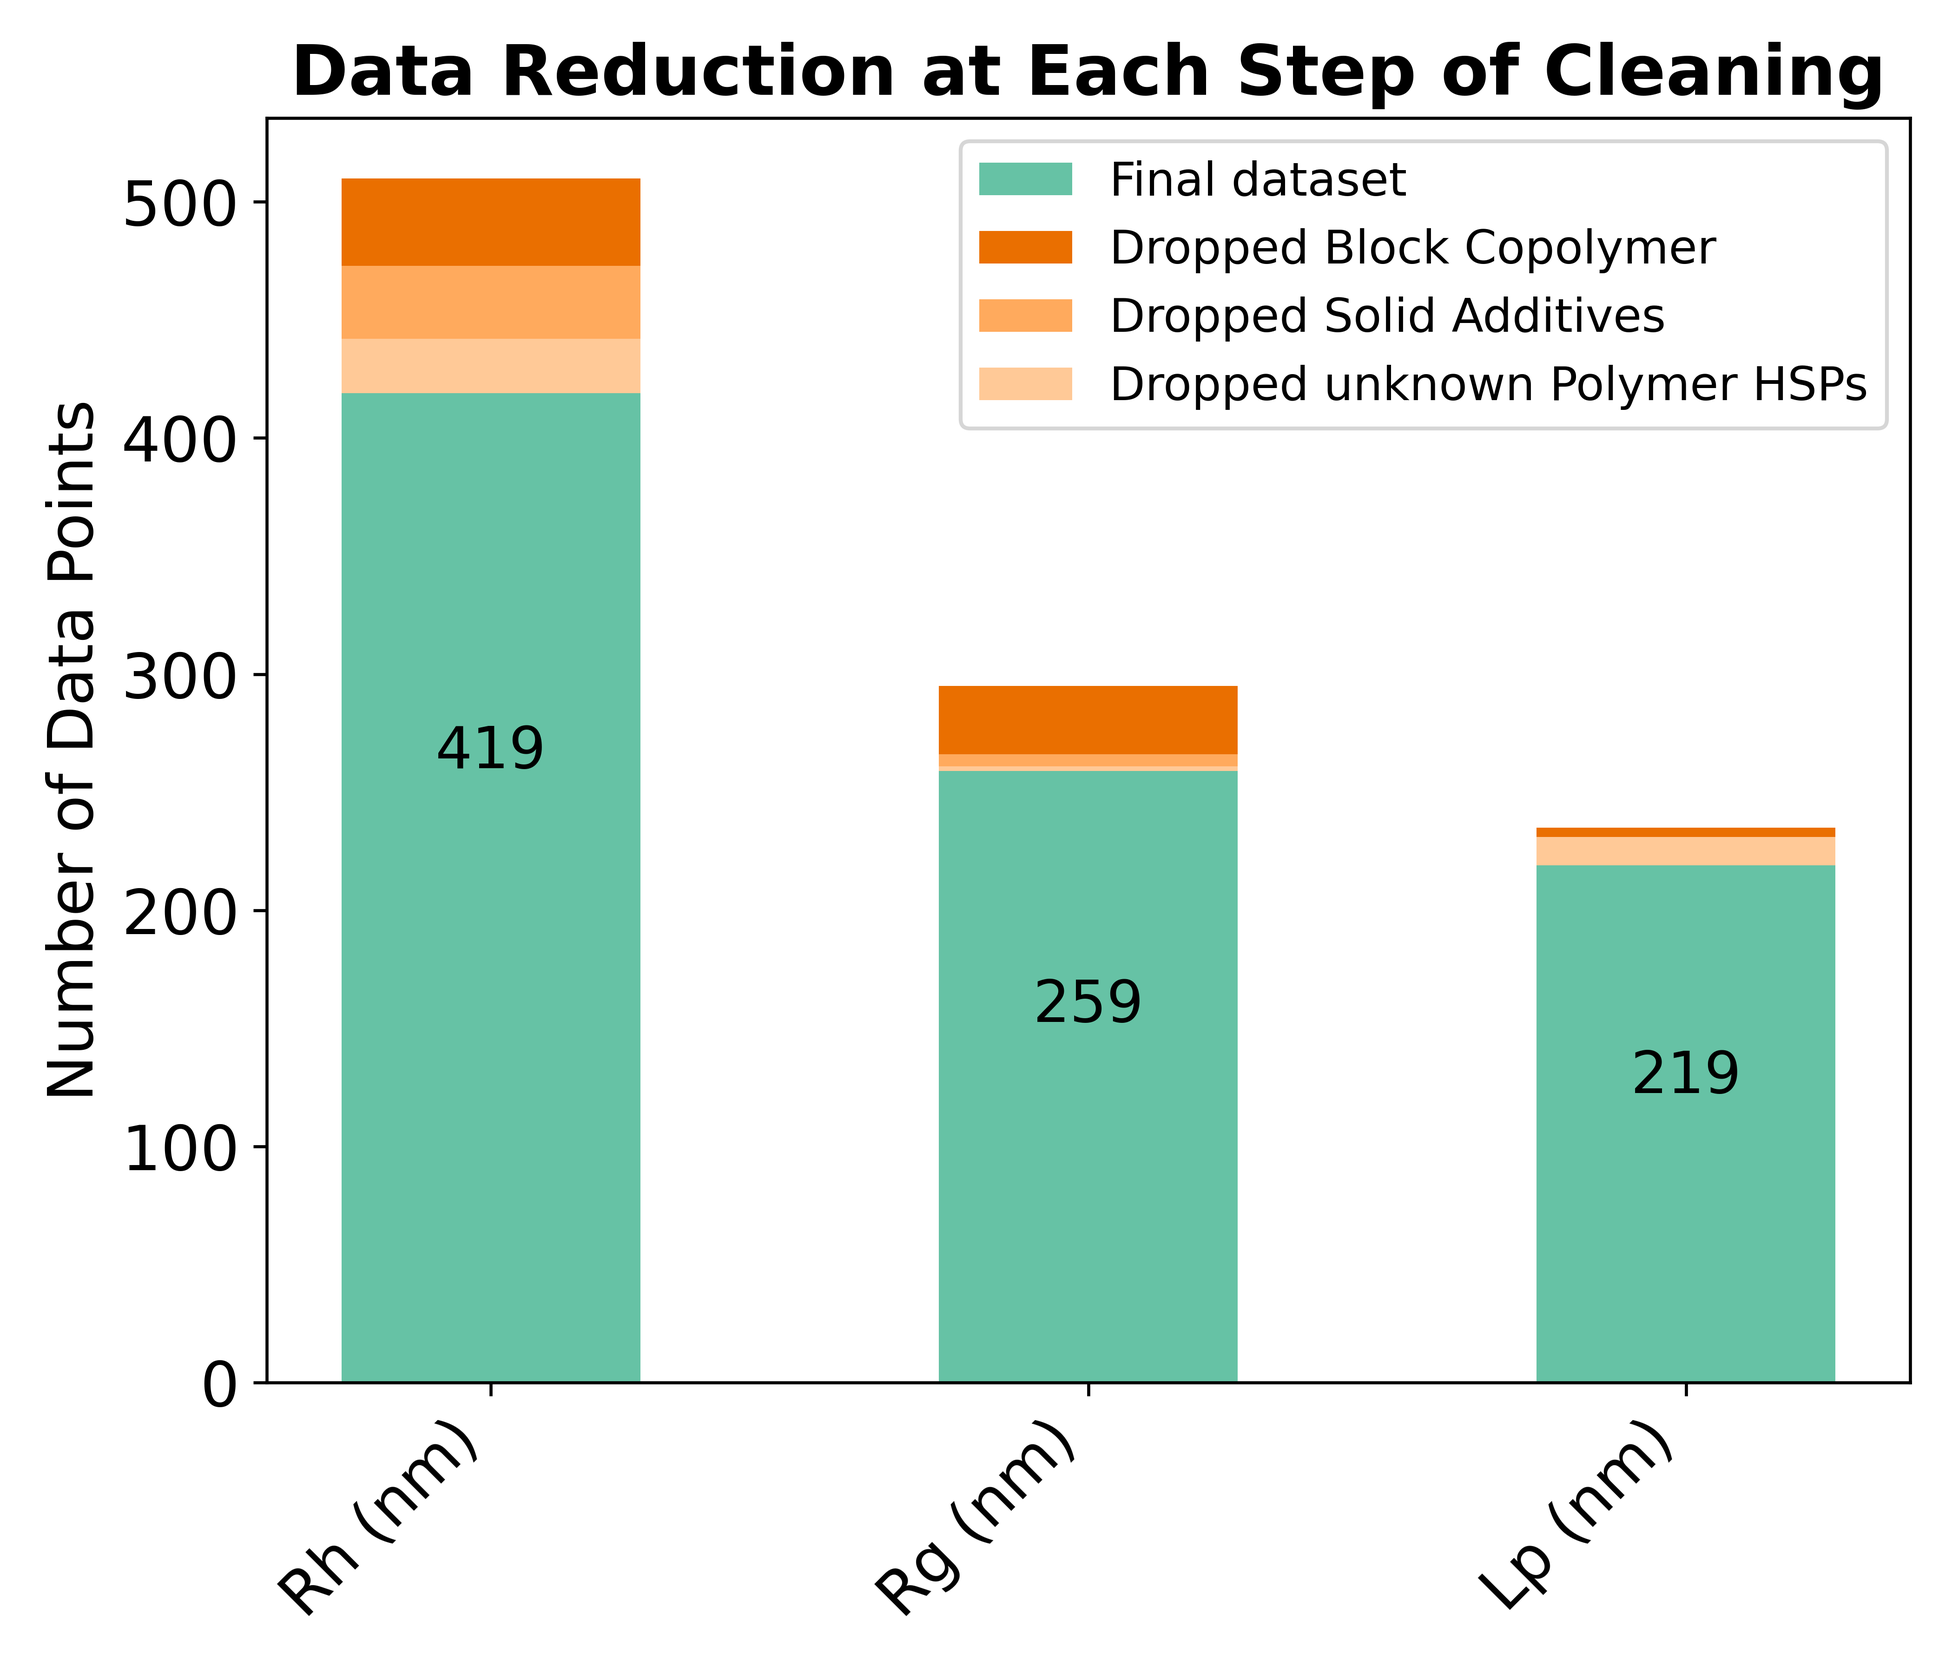
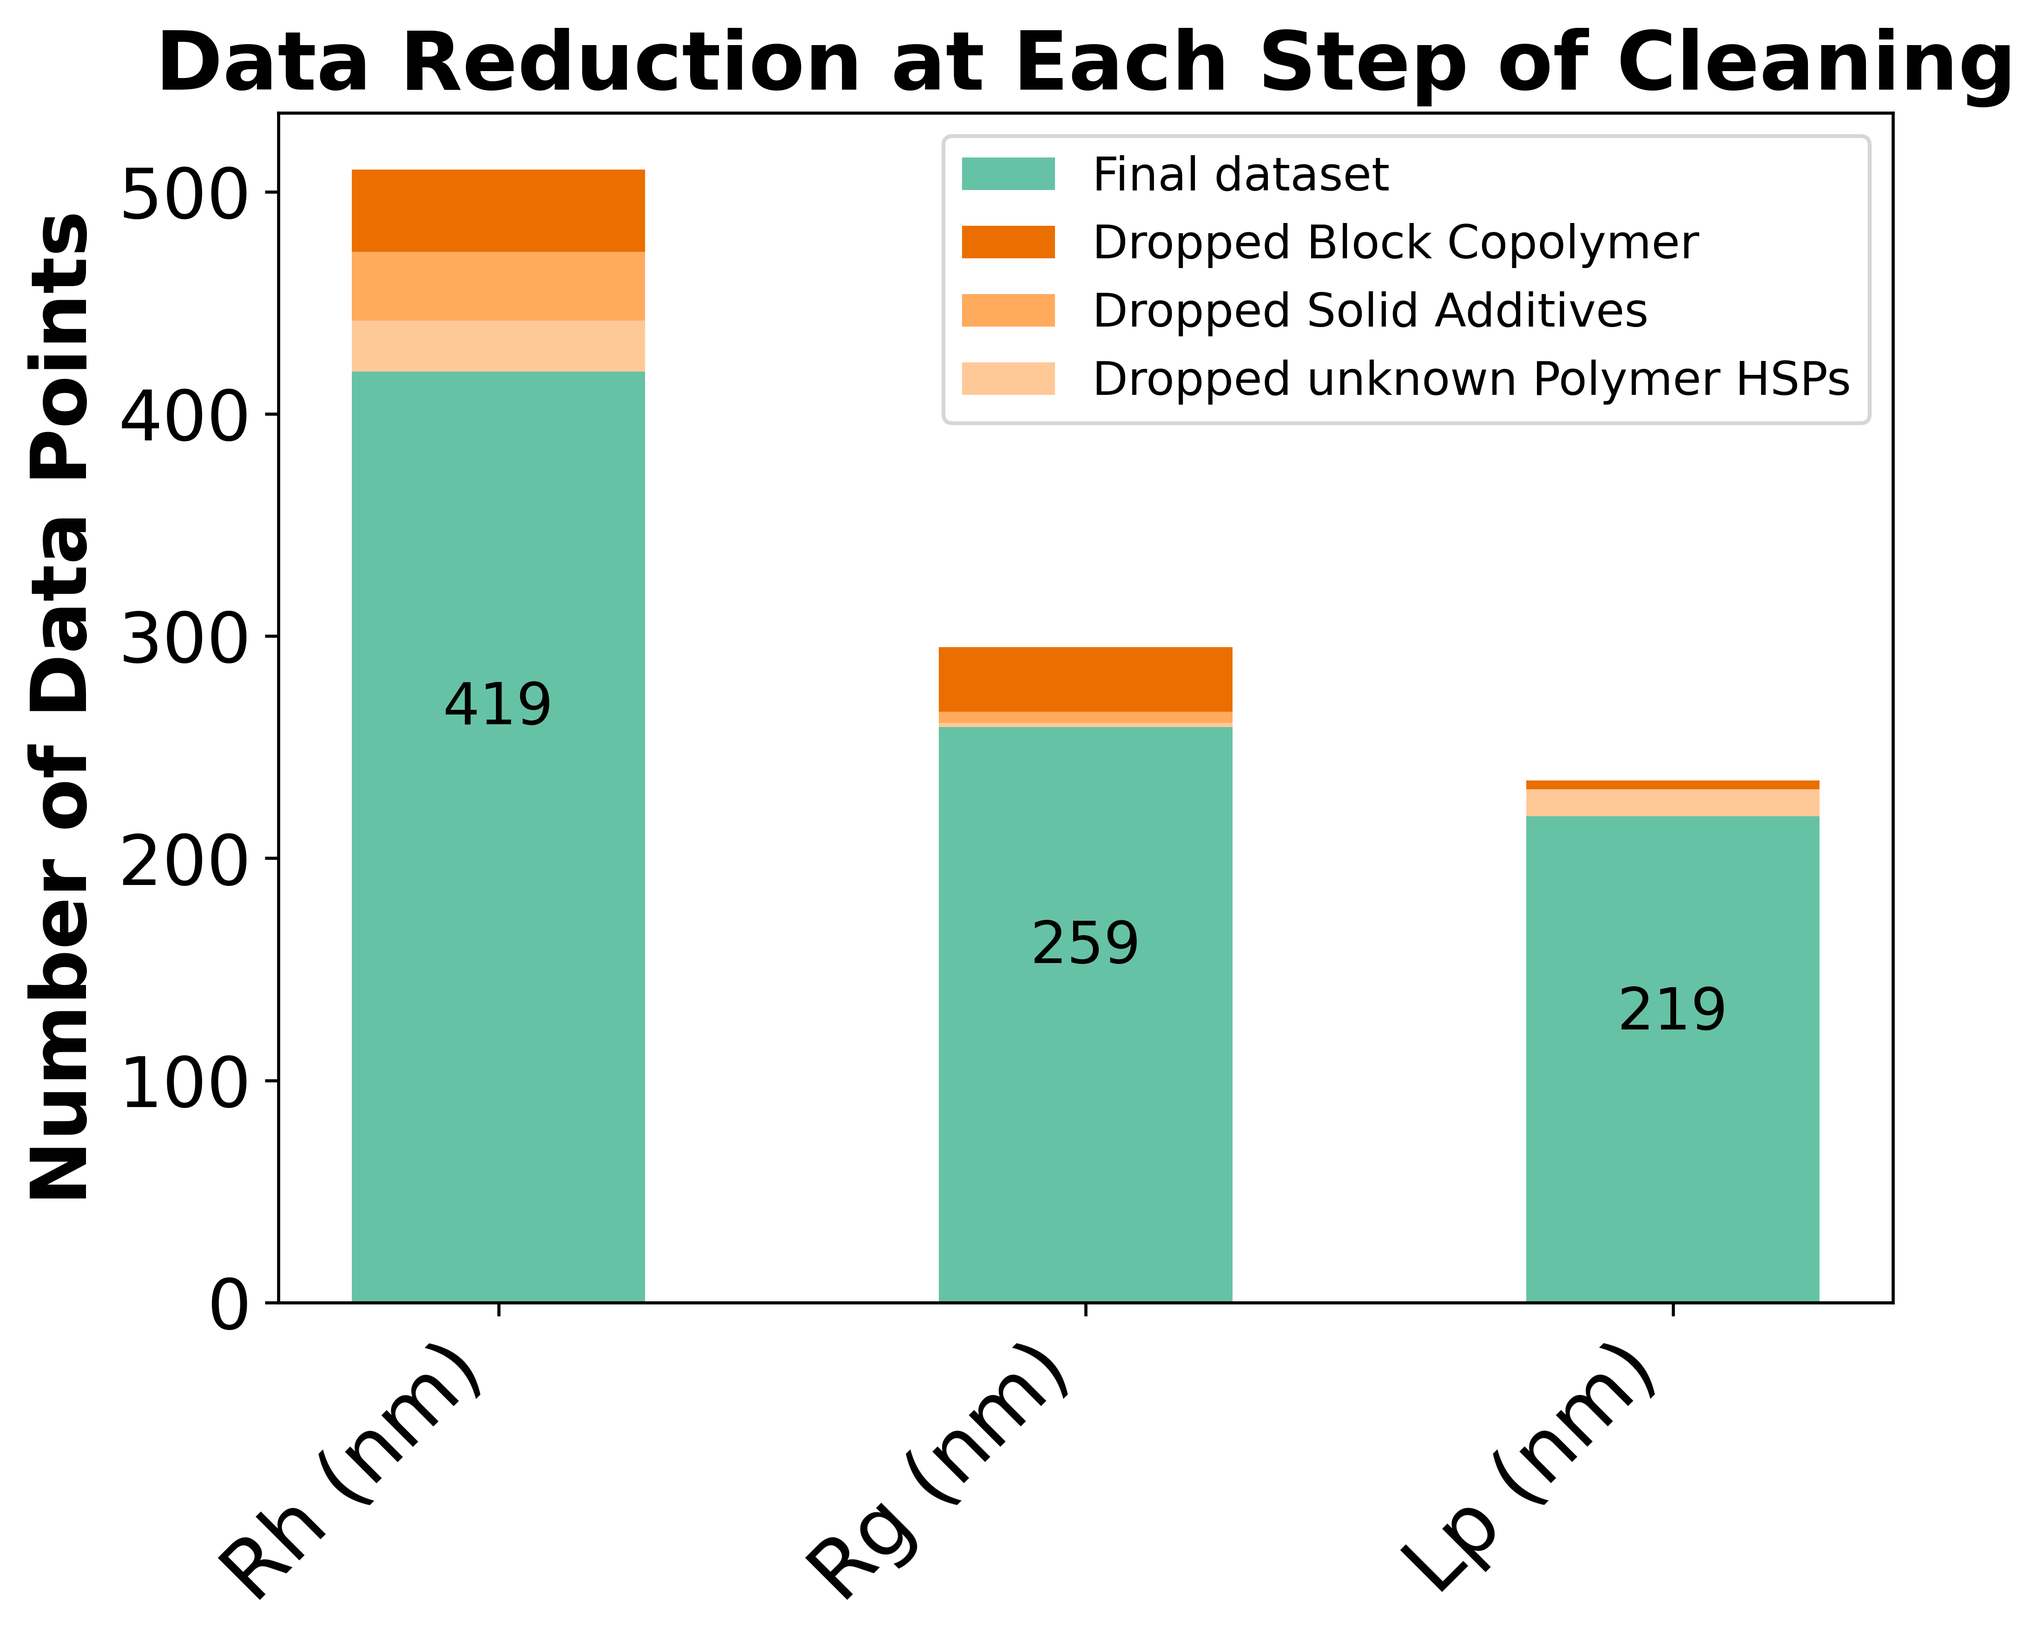
updated

diff --git a/code_/training/get_ood_split_learning_curve.py b/code_/training/get_ood_split_learning_curve.py
@@ -16,7 +16,8 @@ from imputation_normalization import preprocessing_workflow
 from training_utils import get_target_transformer, split_for_training,set_globals
 from scoring import (
                     train_and_predict_ood,
-                    process_ood_learning_curve_score
+                    process_ood_learning_curve_score,
+                    get_incremental_split
                 )
 from all_factories import optimized_models
 
@@ -66,9 +67,9 @@ def train_ood_learning_curve(
                                     second_transformer=second_transformer,
                                     clustering_method=clustering_method,
                                     )
-
+    print(score)
     score = process_ood_learning_curve_score(score)
-
+    print(score)
     return score, predictions
 
 def prepare_data(    
@@ -146,11 +147,46 @@ def run_ood_learning_curve(
         X_test, y_test = split_for_training(X, test_idx), split_for_training(y, test_idx)
         learning_curve_predictions[f'CO_{cluster}'] = {'y_true': y_test.flatten()}
         train_ratios =[
-            .1,.3,.5,.7,
+            
             .9]
         min_ratio_to_compare = min_train_size/len(X_tv)
         if min_ratio_to_compare not in train_ratios:
             train_ratios.append(min_ratio_to_compare)
+
+
+
+
+        #### IID learning curve
+        ID_n_split = round(len(y)/len(y_test))
+        for seed_IID in SEEDS:
+
+           ### building model
+            y_transform = get_target_transformer(transform_type, second_transformer)
+            model = optimized_models(model_name, random_state=seed_IID)
+
+            y_model = TransformedTargetRegressor(
+                                regressor=model,
+                                transformer=y_transform,
+                                )
+            new_preprocessor = 'passthrough' if len(preprocessor.steps) == 0 else preprocessor
+            regressor_IID :Pipeline= Pipeline(steps=[
+                                ("preprocessor", new_preprocessor),
+                                ("regressor", y_model),
+                                ])
+            regressor_IID.set_output(transform="pandas")
+
+            IID_cv_baseline = KFold(n_splits=ID_n_split, shuffle=True, random_state=seed_IID)
+            train_sizes_IID, train_scores_IID, test_scores_IID = get_incremental_split(regressor_IID,X,y, 
+                                                            cv=IID_cv_baseline,scoring='neg_root_mean_squared_error',
+                                                            train_ratio=train_ratios,random_state=seed_IID)
+            
+            train_ratios_IID: np.ndarray = np.array(train_sizes_IID) / len(X_tv)
+            for train_ratio_IID, train_score_IID, test_score_IID in zip(train_ratios_IID, train_scores_IID, test_scores_IID):
+
+                learning_curve_scores.setdefault(f'ID_{cluster}', {}).setdefault(f'seed_{seed_IID}', {})[f'ratio_{train_ratio_IID}']= {
+                    f'train_rmse': train_score_IID,
+                    'test_rmse': test_score_IID,
+                }
 
 
         for train_ratio in train_ratios:
@@ -162,7 +198,6 @@ def run_ood_learning_curve(
                 random_state_list = np.arange(12)
             elif train_ratio >=0.1:
                 random_state_list = np.arange(30)
-
             else:
                 random_state_list = np.arange(50)
 
@@ -182,28 +217,28 @@ def run_ood_learning_curve(
                 y_model = TransformedTargetRegressor(
                                     regressor=model,
                                     transformer=y_transform,
-                            )
+                                    )
                 new_preprocessor = 'passthrough' if len(preprocessor.steps) == 0 else preprocessor
                 regressor :Pipeline= Pipeline(steps=[
                                     ("preprocessor", new_preprocessor),
                                     ("regressor", y_model),
-                                        ])
+                                    ])
                 regressor.set_output(transform="pandas")
-
-
                 uncertainty_preprocessr: Pipeline = Pipeline(steps=[
                     ("preprocessor", new_preprocessor),
-                ]) 
-                test_score, train_scores, y_test_pred_ood, y_test_uncertainty = train_and_predict_ood(regressor, X_train, y_train, X_test, y_test,
-                                                                                  return_train_pred=True,algorithm=model_name,manual_preprocessor=uncertainty_preprocessr)
+                    ]) 
+
+                test_scores_OOD, train_scores_OOD, y_test_pred_OOD, y_test_uncertainty_OOD = train_and_predict_ood(regressor, X_train, y_train, X_test, y_test,
+                                                                                                    return_train_pred=True, algorithm=model_name,
+                                                                                                    manual_preprocessor=uncertainty_preprocessr)
                 
-                learning_curve_scores.setdefault(f'CO_{cluster}', {}).setdefault(f'ratio_{train_ratio}', {})[f'seed_{seed}'] = (train_scores, test_score)
+                learning_curve_scores.setdefault(f'CO_{cluster}', {}).setdefault(f'ratio_{train_ratio}', {})[f'seed_{seed}'] = (train_scores_OOD, test_scores_OOD)
                 learning_curve_predictions.setdefault(f'CO_{cluster}', {}).setdefault(f'ratio_{train_ratio}', {})[f'seed_{seed}'] = {
-                    'y_test_pred': y_test_pred_ood.flatten(),
-                    'y_test_uncertainty': y_test_uncertainty.flatten() if y_test_uncertainty is not None else None,
+                    'y_test_pred': y_test_pred_OOD.flatten(),
+                    'y_test_uncertainty': y_test_uncertainty_OOD.flatten() if y_test_uncertainty_OOD is not None else None,
                 }
-                print(f'Cluster: {cluster}')
-                print(f'lc: {learning_curve_scores}')
+                # print(f'Cluster: {cluster}')
+                # print(f'lc: {learning_curve_scores}')
 
         learning_curve_scores[f'CO_{cluster}'][f'Cluster size'] = len(X_tv)
         learning_curve_predictions[f'CO_{cluster}'][f'Cluster size'] = len(X_tv)

diff --git a/code_/training/scoring.py b/code_/training/scoring.py
@@ -305,10 +305,10 @@ def process_ood_learning_curve_score(scores: dict) -> dict:
     Processes the input dictionary, aggregates scores for each training ratio across different seeds,
     and computes summary statistics for both test and train metrics.
     """
-    for cluster, ratios in scores.items():
-        if cluster.startswith("CO_") or cluster.startswith("ID_"):
+    for cluster, score_dict in scores.items():
+        if cluster.startswith("CO_"):
 
-            for train_ratio, seeds in ratios.items():
+            for train_ratio, seeds in score_dict.items():
                 if train_ratio == "Cluster size":  
                     continue
                 test_metrics = defaultdict(list)
@@ -328,6 +328,32 @@ def process_ood_learning_curve_score(scores: dict) -> dict:
                     "train_summary_stats": compute_summary_stats(train_metrics),
                 })
 
+        if cluster.startswith("ID_"):
+            ratio_aggregator = defaultdict(lambda: {"train_rmse": [], "test_rmse": []})
+            for seed, train_ratio_dict in score_dict.items():
+                for ratio_key, metrics_dict in train_ratio_dict.items():
+                    # ratio_key is like 'ratio_0.3' -> extract actual number if needed
+                    train_rmse_array = metrics_dict['train_rmse']
+                    test_rmse_array = metrics_dict['test_rmse']
+
+                    # Extend the list with all values inside array
+                    ratio_aggregator[ratio_key]["train_rmse"].extend(train_rmse_array)
+                    ratio_aggregator[ratio_key]["test_rmse"].extend(test_rmse_array)
+
+            # Second: now process each ratio
+            for ratio_key, metrics in ratio_aggregator.items():
+                train_metrics = defaultdict(list)
+                test_metrics = defaultdict(list)
+
+                train_metrics["rmse"] = metrics["train_rmse"]
+                test_metrics["rmse"] = metrics["test_rmse"]
+
+                scores[cluster][ratio_key].update({
+                    "test_summary_stats": compute_summary_stats(test_metrics),
+                    "train_summary_stats": compute_summary_stats(train_metrics),
+                })
+
+    
     return scores
 
 
@@ -446,8 +472,10 @@ def cross_validate_regressor(
 
 
 def get_incremental_split(
-        regressor_params, X, y, cv, steps:int,
-        random_state:int
+        regressor_params, X, y, cv,
+        random_state:int,
+        train_ratio:np.ndarray,
+        scoring:str='r2',
     ) -> tuple:
      
     training_sizes, training_scores, testing_scores = learning_curve(
@@ -456,8 +484,8 @@ def get_incremental_split(
                                                         y,
                                                         cv=cv,
                                                         n_jobs=-1,
-                                                        train_sizes=np.linspace(0.1, 1, int(0.9 / steps)),
-                                                        scoring="r2",
+                                                        train_sizes=train_ratio,
+                                                        scoring=scoring,
                                                         shuffle=True,
                                                         random_state=random_state
                                                         )
@@ -487,10 +515,12 @@ class PredictionUncertainty:
 
 
 def train_and_predict_ood(reg, X_train_val, y_train_val, X_test, y_test, 
-                            return_train_pred:bool=False, algorithm:str='NGB',
+                            algorithm:str, return_train_pred:bool=False,
                             manual_preprocessor:Pipeline=None) -> tuple:
+    
     reg.fit(X_train_val, y_train_val)
-    x_test_scaled = manual_preprocessor.fit_transform(X_test)
+    manual_preprocessor.fit(X_train_val)
+    x_test_scaled = manual_preprocessor.transform(X_test)
     # print(x_test_scaled)
     if algorithm == 'NGB':
         y_test_predist = reg.named_steps['regressor'].regressor_.pred_dist(x_test_scaled)

diff --git a/code_/training/learning_curve_utils.py b/code_/training/learning_curve_utils.py
@@ -177,6 +177,8 @@ def run_leaning(
                         ])
         
         regressor.set_output(transform="pandas")
+        steps=0.1
+        train_ratio:np.ndarray = np.linspace(0.1, 1, int(0.9 / steps))
         if hyperparameter_optimization:
                 best_estimator, regressor_params = _optimize_hyperparams(
                     X,
@@ -186,12 +188,11 @@ def run_leaning(
                     regressor_type=regressor_type,
                     regressor=regressor,
                 )
-        
                 train_sizes, train_scores, test_scores = get_incremental_split(best_estimator,
                                                                                 X,
                                                                                 y,
                                                                                 cv_outer,
-                                                                                steps=0.1,
+                                                                                train_ratio=train_ratio,
                                                                                 random_state=seed)
 
 
@@ -200,7 +201,7 @@ def run_leaning(
                                                                                 X,
                                                                                 y,
                                                                                 cv_outer,
-                                                                                steps=0.1,
+                                                                                train_ratio=train_ratio,
                                                                                 random_state=seed)
 
 

diff --git a/code_/training/all_factories.py b/code_/training/all_factories.py
@@ -116,11 +116,11 @@ def optimized_models(model_name:str,random_state:int=0, **kwargs):
                              random_state=random_state, verbose=False,**kwargs)
     if 'XGBR'==model_name:
         return  XGBRegressor(eval_metric="rmse", n_estimators=2000,
-                              learning_rate=0.01, max_depth=10000, random_state=random_state, n_jobs=-2,**kwargs)
+                              learning_rate=0.01, max_depth=10000, random_state=random_state, n_jobs=-1,**kwargs)
     
     if 'RF'==model_name:
-        return RandomForestRegressor(n_estimators=50, max_depth=None, min_samples_leaf=.05,
-                                     min_samples_split=.05,random_state=random_state, n_jobs=-1,**kwargs)
+        return RandomForestRegressor(n_estimators=100, max_depth=None, 
+                                     random_state=random_state, n_jobs=-1,**kwargs)
 
     return None
 

diff --git a/code_/visualization/visualiz_general.py b/code_/visualization/visualiz_general.py
@@ -46,12 +46,12 @@ def plot_data_reduction_steps()->None:
 
 
 
-    ax.set_ylabel('Number of Data Points', fontsize=16)
-    ax.set_title('Data Reduction at Each Step of Cleaning', fontsize=18, fontweight='bold')
+    ax.set_ylabel('Number of Data Points', fontsize=20, fontweight='bold')
+    ax.set_title('Data Reduction at Each Step of Cleaning', fontsize=21, fontweight='bold')
     ax.set_xticks(x)
     ax.set_xticklabels(targets, rotation=45, ha='right')
-    ax.tick_params(axis='x', labelsize=16)
-    ax.tick_params(axis='y', labelsize=16)
+    ax.tick_params(axis='x', labelsize=21)
+    ax.tick_params(axis='y', labelsize=18)
 
     ax.legend(fontsize=12)
     plt.tight_layout()

diff --git a/code_/training/make_ood_learning_curve.py b/code_/training/make_ood_learning_curve.py
@@ -26,7 +26,7 @@ w_data = pd.read_pickle(training_df_dir)
 # 'KM4 Mordred_Polysize cluster'
 
 
-TEST = False
+TEST = True
 
 
 def main_structural_numerical(
@@ -103,7 +103,7 @@ if __name__ == "__main__":
             representation="Mordred",
             # radius=3,
             # vector="count",
-            regressor_type="NGB",
+            regressor_type="RF",
             target_features=['log Rg (nm)'],  
             transform_type='Standard',
             second_transformer=None,
